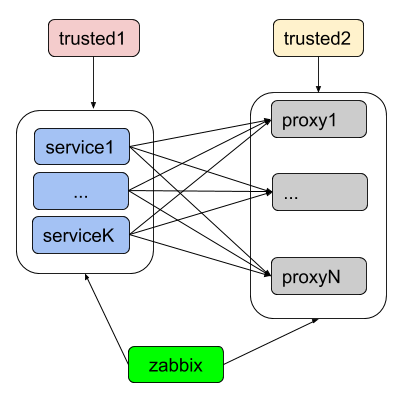
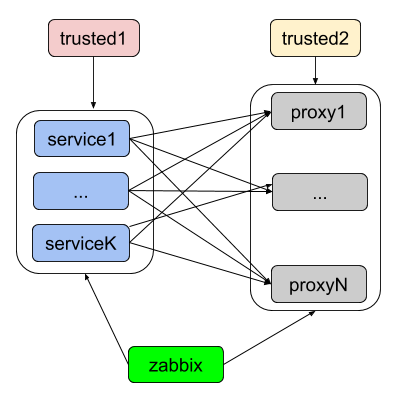
* cosmetic changes of the diagram and README linked to it

diff --git a/README.md b/README.md
@@ -4,7 +4,8 @@
 This is an ansible playbook to quickly bring up a network of private proxy servers spread across multipe hosting providers
 
 ## Architecture
-TBD
+![proxy network architecture](https://raw.githubusercontent.com/ffeast/proxy-bootstrap/master/images/proxy-bootstrap.png)
+
 ### Technical details
  - `centos6` is used as an operating system
  - [3proxy](https://github.com/z3APA3A/3proxy) is used as a socks/http proxy server
